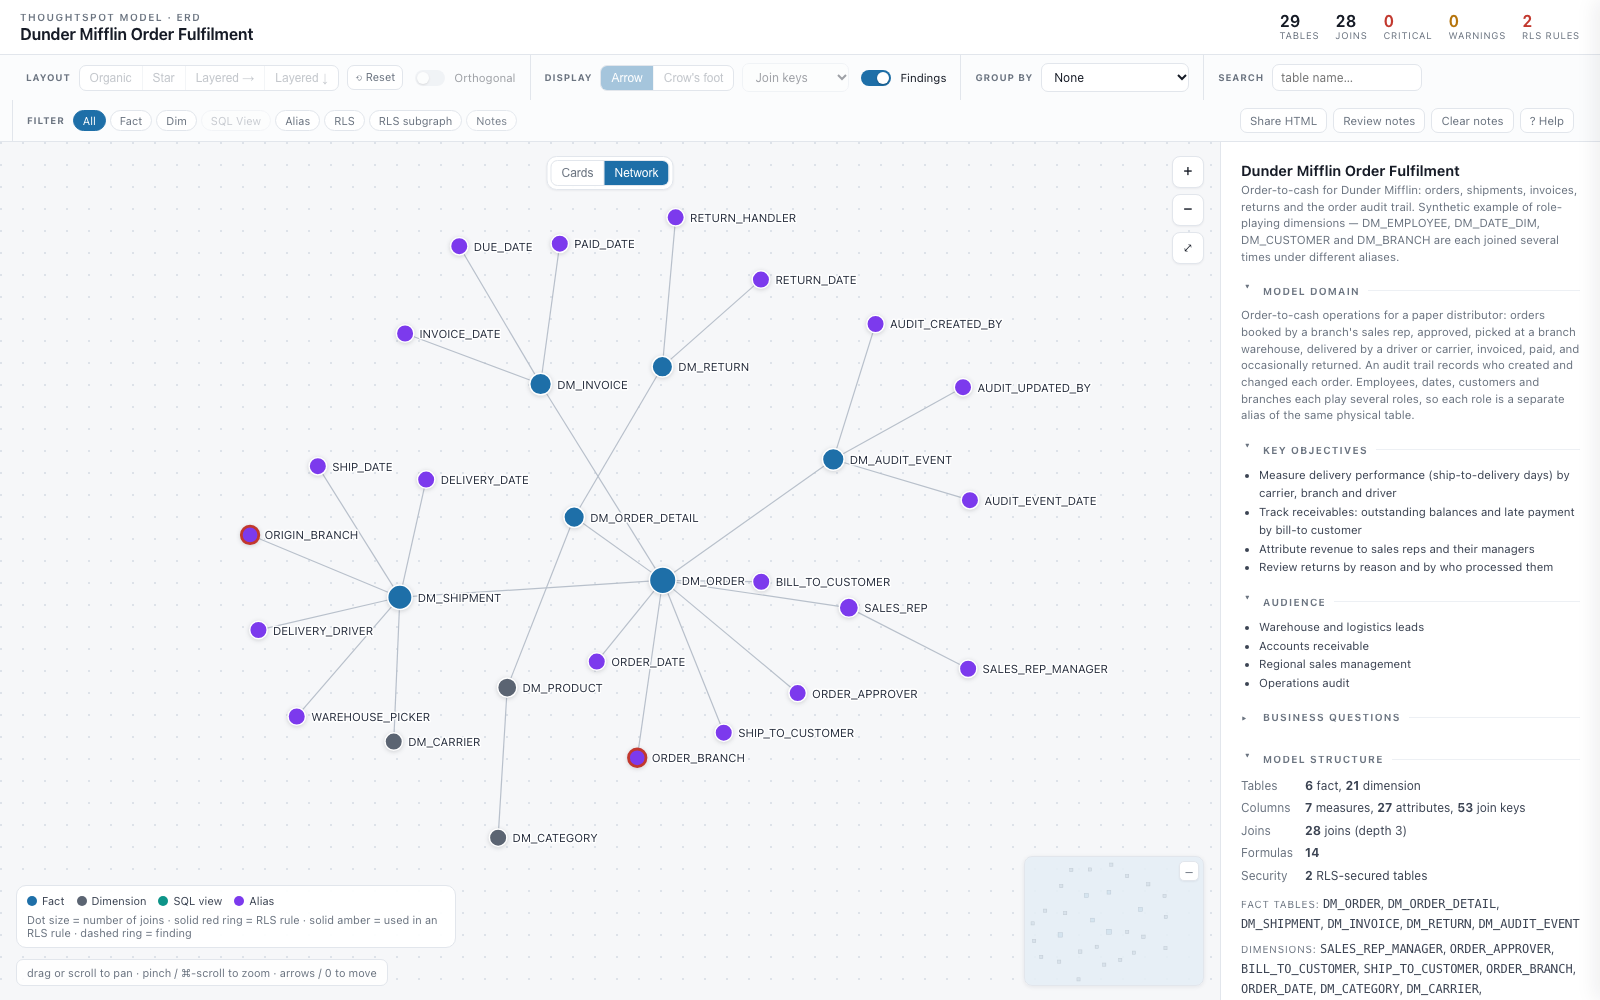
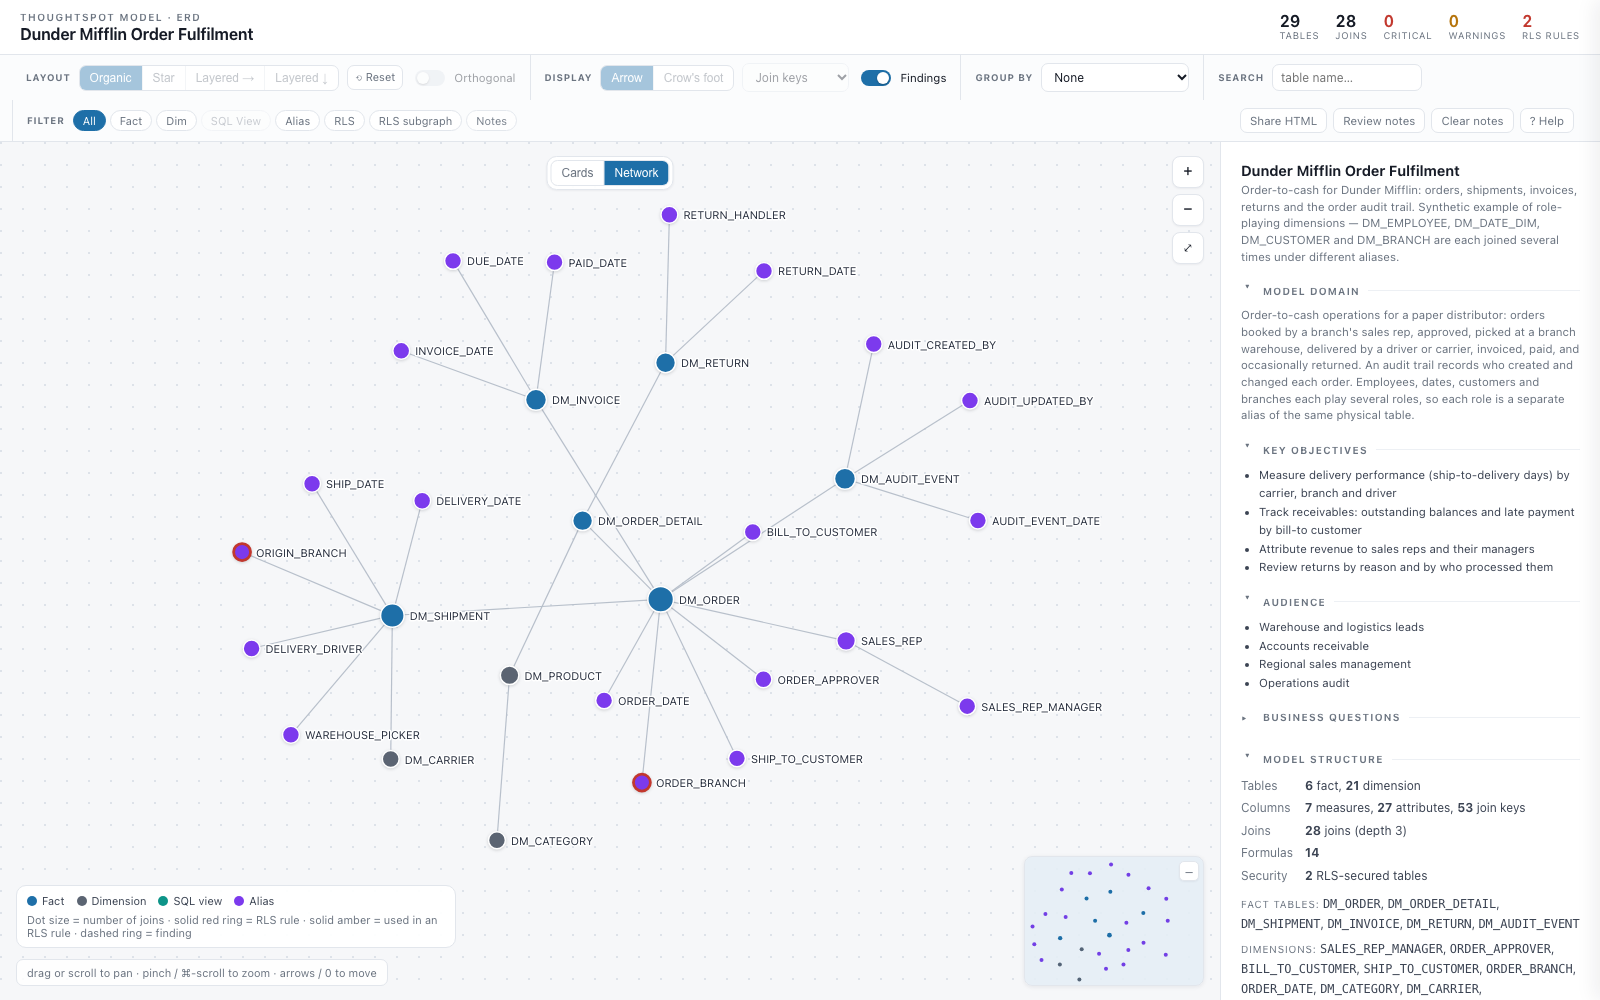
fix(erd): network view polish — layout highlight, measured label widths, minimap dots, legend clearance (ts-object-model-erd 1.9.1) (#598)

diff --git a/agents/cli/ts-object-model-erd/examples/order-fulfilment/model_erd.html b/agents/cli/ts-object-model-erd/examples/order-fulfilment/model_erd.html
@@ -233,7 +233,8 @@ table.cols .c-syn .syn{font-family:-apple-system,system-ui,sans-serif;font-size:
 .dot{cursor:pointer;filter:drop-shadow(0 1px 2px rgba(20,27,38,.18))}
 .dot-label{font-size:12px;fill:#2A3140;paint-order:stroke;stroke:#fff;stroke-width:3px;stroke-linejoin:round;cursor:pointer}
 #viewport.net-far .dot-label{display:none}
-.net-legend{position:absolute;left:16px;bottom:52px;display:flex;flex-wrap:wrap;gap:6px 12px;max-width:440px;
+/* max-width keeps clear of the 180px minimap at the bottom right (16+180+16 + a 32px gap) */
+.net-legend{position:absolute;left:16px;bottom:52px;display:flex;flex-wrap:wrap;gap:6px 12px;max-width:min(440px,calc(100% - 244px));
   background:rgba(255,255,255,.94);border:1px solid var(--line,#E2E6EC);border-radius:10px;padding:8px 10px;font-size:11px;color:#3C4453}
 .net-legend[hidden]{display:none}
 .net-legend span{display:inline-flex;align-items:center;gap:5px}
@@ -449,7 +450,18 @@ function dotR(t){return Math.min(DOT_MAX,DOT_MIN+2.2*Math.sqrt((undir[t.id]||[])
 // endpoints, drag) goes through sizeNode, so dot geometry never leaks card sizes.
 function nodeSize(t){if(VIEW==="network"){const r=dotR(t);return {w:2*r,h:2*r};}return {w:NODE_W,h:nodeHeight(t)};}
 function sizeNode(n){const s=nodeSize(n.t);n.w=s.w;n.h=s.h;}
-function labelW(t){return t.id.length*NET_LABEL_CH+8;}
+// Label width in px, measured with the label's real font (12px, the page's sans), so
+// the network layout spaces for the text actually drawn. The per-character estimate is
+// a floor and the fallback when canvas text metrics are unavailable. Cached per id.
+let _lblCtx=null;const _lblW={};
+function labelW(t){
+  if(_lblW[t.id]!=null)return _lblW[t.id];
+  let w=t.id.length*NET_LABEL_CH;
+  try{_lblCtx=_lblCtx||document.createElement("canvas").getContext("2d");
+    _lblCtx.font="12px "+getComputedStyle(document.body).fontFamily;
+    w=Math.max(w,_lblCtx.measureText(t.id).width);}catch(e){}
+  return _lblW[t.id]=Math.ceil(w)+8;
+}
 
 function worstSev(id){let w=null;(findingsByTable[id]||[]).forEach(f=>{if(!w||SEV_RANK[f.sev]>SEV_RANK[w])w=f.sev;});return w;}
 // Tables referenced (by name/alias) in an RLS rule's expression, excluding the rule's
@@ -861,8 +873,12 @@ function tweenTo(targets){
   nodes.forEach(n=>{const t=targets[n.t.id];if(t){n.x=t.x;n.y=t.y;}});
   renderAll();fit();
 }
+// The highlighted Layout button is the active card layout. In network view that is the
+// layout Cards will return to (cardLayout), shown dimmed with the disabled segment.
+function syncLayoutSeg(){const on=VIEW==="network"?cardLayout:layoutName;
+  document.querySelectorAll("#layout-seg button").forEach(b=>b.classList.toggle("on",b.dataset.l===on));}
 function setLayout(name){layoutName=name;
-  document.querySelectorAll("#layout-seg button").forEach(b=>b.classList.toggle("on",b.dataset.l===name));
+  syncLayoutSeg();
   const layered=name==="lr"||name==="tb";
   tOrth.disabled=!layered;$("orth-wrap").style.opacity=layered?1:.4;
   updateSavedBadge();
@@ -878,6 +894,7 @@ function syncViewControls(){
   const net=VIEW==="network";
   document.querySelectorAll("#view-seg button").forEach(b=>b.classList.toggle("on",b.dataset.v===VIEW));
   document.querySelectorAll("#layout-seg button,#notation-seg button").forEach(b=>b.disabled=net);
+  syncLayoutSeg();
   colSel.disabled=net;
   if(net){tOrth.disabled=true;$("orth-wrap").style.opacity=.4;}
   $("net-legend").hidden=!net;
@@ -1237,6 +1254,9 @@ function renderMinimap(){
   const scale=Math.min((MM_W-MM_PAD*2)/w,(MM_H-MM_PAD*2)/h);
   mmT={scale,ox:bb.x0,oy:bb.y0};
   nodes.forEach(n=>{
+    // Network view: dots in their role colour (card fills are near-white specks at this size).
+    if(VIEW==="network"){NS_el("circle",{cx:MM_PAD+(n.x+n.w/2-bb.x0)*scale,cy:MM_PAD+(n.y+n.h/2-bb.y0)*scale,
+      r:Math.max(2,n.w/2*scale),fill:DOT_FILL[dotKind(n.t)]},host);return;}
     NS_el("rect",{x:MM_PAD+(n.x-bb.x0)*scale,y:MM_PAD+(n.y-bb.y0)*scale,
       width:Math.max(1,n.w*scale),height:Math.max(1,n.h*scale),fill:mmFill(n.t)},host);
   });

diff --git a/agents/cli/ts-object-model-erd/examples/sales-inventory/model_erd.html b/agents/cli/ts-object-model-erd/examples/sales-inventory/model_erd.html
@@ -233,7 +233,8 @@ table.cols .c-syn .syn{font-family:-apple-system,system-ui,sans-serif;font-size:
 .dot{cursor:pointer;filter:drop-shadow(0 1px 2px rgba(20,27,38,.18))}
 .dot-label{font-size:12px;fill:#2A3140;paint-order:stroke;stroke:#fff;stroke-width:3px;stroke-linejoin:round;cursor:pointer}
 #viewport.net-far .dot-label{display:none}
-.net-legend{position:absolute;left:16px;bottom:52px;display:flex;flex-wrap:wrap;gap:6px 12px;max-width:440px;
+/* max-width keeps clear of the 180px minimap at the bottom right (16+180+16 + a 32px gap) */
+.net-legend{position:absolute;left:16px;bottom:52px;display:flex;flex-wrap:wrap;gap:6px 12px;max-width:min(440px,calc(100% - 244px));
   background:rgba(255,255,255,.94);border:1px solid var(--line,#E2E6EC);border-radius:10px;padding:8px 10px;font-size:11px;color:#3C4453}
 .net-legend[hidden]{display:none}
 .net-legend span{display:inline-flex;align-items:center;gap:5px}
@@ -449,7 +450,18 @@ function dotR(t){return Math.min(DOT_MAX,DOT_MIN+2.2*Math.sqrt((undir[t.id]||[])
 // endpoints, drag) goes through sizeNode, so dot geometry never leaks card sizes.
 function nodeSize(t){if(VIEW==="network"){const r=dotR(t);return {w:2*r,h:2*r};}return {w:NODE_W,h:nodeHeight(t)};}
 function sizeNode(n){const s=nodeSize(n.t);n.w=s.w;n.h=s.h;}
-function labelW(t){return t.id.length*NET_LABEL_CH+8;}
+// Label width in px, measured with the label's real font (12px, the page's sans), so
+// the network layout spaces for the text actually drawn. The per-character estimate is
+// a floor and the fallback when canvas text metrics are unavailable. Cached per id.
+let _lblCtx=null;const _lblW={};
+function labelW(t){
+  if(_lblW[t.id]!=null)return _lblW[t.id];
+  let w=t.id.length*NET_LABEL_CH;
+  try{_lblCtx=_lblCtx||document.createElement("canvas").getContext("2d");
+    _lblCtx.font="12px "+getComputedStyle(document.body).fontFamily;
+    w=Math.max(w,_lblCtx.measureText(t.id).width);}catch(e){}
+  return _lblW[t.id]=Math.ceil(w)+8;
+}
 
 function worstSev(id){let w=null;(findingsByTable[id]||[]).forEach(f=>{if(!w||SEV_RANK[f.sev]>SEV_RANK[w])w=f.sev;});return w;}
 // Tables referenced (by name/alias) in an RLS rule's expression, excluding the rule's
@@ -861,8 +873,12 @@ function tweenTo(targets){
   nodes.forEach(n=>{const t=targets[n.t.id];if(t){n.x=t.x;n.y=t.y;}});
   renderAll();fit();
 }
+// The highlighted Layout button is the active card layout. In network view that is the
+// layout Cards will return to (cardLayout), shown dimmed with the disabled segment.
+function syncLayoutSeg(){const on=VIEW==="network"?cardLayout:layoutName;
+  document.querySelectorAll("#layout-seg button").forEach(b=>b.classList.toggle("on",b.dataset.l===on));}
 function setLayout(name){layoutName=name;
-  document.querySelectorAll("#layout-seg button").forEach(b=>b.classList.toggle("on",b.dataset.l===name));
+  syncLayoutSeg();
   const layered=name==="lr"||name==="tb";
   tOrth.disabled=!layered;$("orth-wrap").style.opacity=layered?1:.4;
   updateSavedBadge();
@@ -878,6 +894,7 @@ function syncViewControls(){
   const net=VIEW==="network";
   document.querySelectorAll("#view-seg button").forEach(b=>b.classList.toggle("on",b.dataset.v===VIEW));
   document.querySelectorAll("#layout-seg button,#notation-seg button").forEach(b=>b.disabled=net);
+  syncLayoutSeg();
   colSel.disabled=net;
   if(net){tOrth.disabled=true;$("orth-wrap").style.opacity=.4;}
   $("net-legend").hidden=!net;
@@ -1237,6 +1254,9 @@ function renderMinimap(){
   const scale=Math.min((MM_W-MM_PAD*2)/w,(MM_H-MM_PAD*2)/h);
   mmT={scale,ox:bb.x0,oy:bb.y0};
   nodes.forEach(n=>{
+    // Network view: dots in their role colour (card fills are near-white specks at this size).
+    if(VIEW==="network"){NS_el("circle",{cx:MM_PAD+(n.x+n.w/2-bb.x0)*scale,cy:MM_PAD+(n.y+n.h/2-bb.y0)*scale,
+      r:Math.max(2,n.w/2*scale),fill:DOT_FILL[dotKind(n.t)]},host);return;}
     NS_el("rect",{x:MM_PAD+(n.x-bb.x0)*scale,y:MM_PAD+(n.y-bb.y0)*scale,
       width:Math.max(1,n.w*scale),height:Math.max(1,n.h*scale),fill:mmFill(n.t)},host);
   });

diff --git a/agents/shared/erd/renderer.js b/agents/shared/erd/renderer.js
@@ -37,7 +37,18 @@ function dotR(t){return Math.min(DOT_MAX,DOT_MIN+2.2*Math.sqrt((undir[t.id]||[])
 // endpoints, drag) goes through sizeNode, so dot geometry never leaks card sizes.
 function nodeSize(t){if(VIEW==="network"){const r=dotR(t);return {w:2*r,h:2*r};}return {w:NODE_W,h:nodeHeight(t)};}
 function sizeNode(n){const s=nodeSize(n.t);n.w=s.w;n.h=s.h;}
-function labelW(t){return t.id.length*NET_LABEL_CH+8;}
+// Label width in px, measured with the label's real font (12px, the page's sans), so
+// the network layout spaces for the text actually drawn. The per-character estimate is
+// a floor and the fallback when canvas text metrics are unavailable. Cached per id.
+let _lblCtx=null;const _lblW={};
+function labelW(t){
+  if(_lblW[t.id]!=null)return _lblW[t.id];
+  let w=t.id.length*NET_LABEL_CH;
+  try{_lblCtx=_lblCtx||document.createElement("canvas").getContext("2d");
+    _lblCtx.font="12px "+getComputedStyle(document.body).fontFamily;
+    w=Math.max(w,_lblCtx.measureText(t.id).width);}catch(e){}
+  return _lblW[t.id]=Math.ceil(w)+8;
+}
 
 function worstSev(id){let w=null;(findingsByTable[id]||[]).forEach(f=>{if(!w||SEV_RANK[f.sev]>SEV_RANK[w])w=f.sev;});return w;}
 // Tables referenced (by name/alias) in an RLS rule's expression, excluding the rule's
@@ -449,8 +460,12 @@ function tweenTo(targets){
   nodes.forEach(n=>{const t=targets[n.t.id];if(t){n.x=t.x;n.y=t.y;}});
   renderAll();fit();
 }
+// The highlighted Layout button is the active card layout. In network view that is the
+// layout Cards will return to (cardLayout), shown dimmed with the disabled segment.
+function syncLayoutSeg(){const on=VIEW==="network"?cardLayout:layoutName;
+  document.querySelectorAll("#layout-seg button").forEach(b=>b.classList.toggle("on",b.dataset.l===on));}
 function setLayout(name){layoutName=name;
-  document.querySelectorAll("#layout-seg button").forEach(b=>b.classList.toggle("on",b.dataset.l===name));
+  syncLayoutSeg();
   const layered=name==="lr"||name==="tb";
   tOrth.disabled=!layered;$("orth-wrap").style.opacity=layered?1:.4;
   updateSavedBadge();
@@ -466,6 +481,7 @@ function syncViewControls(){
   const net=VIEW==="network";
   document.querySelectorAll("#view-seg button").forEach(b=>b.classList.toggle("on",b.dataset.v===VIEW));
   document.querySelectorAll("#layout-seg button,#notation-seg button").forEach(b=>b.disabled=net);
+  syncLayoutSeg();
   colSel.disabled=net;
   if(net){tOrth.disabled=true;$("orth-wrap").style.opacity=.4;}
   $("net-legend").hidden=!net;
@@ -825,6 +841,9 @@ function renderMinimap(){
   const scale=Math.min((MM_W-MM_PAD*2)/w,(MM_H-MM_PAD*2)/h);
   mmT={scale,ox:bb.x0,oy:bb.y0};
   nodes.forEach(n=>{
+    // Network view: dots in their role colour (card fills are near-white specks at this size).
+    if(VIEW==="network"){NS_el("circle",{cx:MM_PAD+(n.x+n.w/2-bb.x0)*scale,cy:MM_PAD+(n.y+n.h/2-bb.y0)*scale,
+      r:Math.max(2,n.w/2*scale),fill:DOT_FILL[dotKind(n.t)]},host);return;}
     NS_el("rect",{x:MM_PAD+(n.x-bb.x0)*scale,y:MM_PAD+(n.y-bb.y0)*scale,
       width:Math.max(1,n.w*scale),height:Math.max(1,n.h*scale),fill:mmFill(n.t)},host);
   });

diff --git a/agents/shared/erd/renderer.css b/agents/shared/erd/renderer.css
@@ -229,7 +229,8 @@ table.cols .c-syn .syn{font-family:-apple-system,system-ui,sans-serif;font-size:
 .dot{cursor:pointer;filter:drop-shadow(0 1px 2px rgba(20,27,38,.18))}
 .dot-label{font-size:12px;fill:#2A3140;paint-order:stroke;stroke:#fff;stroke-width:3px;stroke-linejoin:round;cursor:pointer}
 #viewport.net-far .dot-label{display:none}
-.net-legend{position:absolute;left:16px;bottom:52px;display:flex;flex-wrap:wrap;gap:6px 12px;max-width:440px;
+/* max-width keeps clear of the 180px minimap at the bottom right (16+180+16 + a 32px gap) */
+.net-legend{position:absolute;left:16px;bottom:52px;display:flex;flex-wrap:wrap;gap:6px 12px;max-width:min(440px,calc(100% - 244px));
   background:rgba(255,255,255,.94);border:1px solid var(--line,#E2E6EC);border-radius:10px;padding:8px 10px;font-size:11px;color:#3C4453}
 .net-legend[hidden]{display:none}
 .net-legend span{display:inline-flex;align-items:center;gap:5px}

diff --git a/agents/cli/ts-object-model-erd/tests/test_network_view.py b/agents/cli/ts-object-model-erd/tests/test_network_view.py
@@ -242,3 +242,74 @@ def test_view_toggle_does_not_touch_the_toolbar(FULFIL, tmp_path):
       const v=document.getElementById('view-seg');
       return {inControls:!!v.closest('.controls'), onCanvas:!!v.closest('.canvas-wrap')};""", tmp_path)
     assert r == {"inControls": False, "onCanvas": True}
+
+
+def test_layout_button_stays_highlighted_in_and_after_network_view(FULFIL, tmp_path):
+    """Minor 1: network view keeps the card layout it will return to highlighted, and a
+    page whose DOM lost the highlight (a file shared from network view) restores it."""
+    r = browser.probe(FULFIL, """
+      const on=()=>[...document.querySelectorAll('#layout-seg button.on')].map(b=>b.dataset.l);
+      setLayout('lr');setView('network');const inNet=on();
+      setView('cards');
+      document.querySelectorAll('#layout-seg button').forEach(b=>b.classList.remove('on'));
+      loadModel(MODEL);
+      return {inNet, afterLoad:on(), layoutName};""", tmp_path)
+    assert r["inNet"] == ["lr"]
+    assert r["afterLoad"] == [r["layoutName"]]
+
+
+def test_label_width_estimate_covers_rendered_labels(tmp_path):
+    """Minor 5: the layout spaces for labelW, so labelW must not undercut the real text,
+    and the rendered dot+label boxes of long names must not overlap."""
+    import render
+    names = ["CUSTOMER_LIFETIME_VALUE_SEGMENT_%d" % i for i in range(6)] + ["WWWWWWWWWWWWWWWWWWWWWW", "HUB"]
+    tables = [{"id": n, "kind": "dim", "cols": [], "rls": [], "is_sql_view": False,
+               "sql_query": None, "alias_of": None, "in_rls_path": False} for n in names]
+    joins = [{"from": "HUB", "to": n, "name": "j%d" % i, "card": "MANY_TO_ONE", "origin": "model",
+              "type": "INNER", "on": ""} for i, n in enumerate(names[:-1])]
+    bundle = {"models": [{"model": {"name": "L", "guid": "", "description": ""}, "tables": tables,
+                          "joins": joins, "formulas": {}, "findings": []}], "index": [], "dropped": []}
+    page = tmp_path / "long.html"; render.write_html(bundle, str(page))
+    r = browser.probe(str(page), """
+      view.k=1;applyView();
+      const short=[],boxes=[];
+      document.querySelectorAll('#nodes g.node').forEach(g=>{
+        const lab=g.querySelector('.dot-label'),id=lab.textContent,w=lab.getBBox().width;
+        if(w>labelW(tableById[id])-8)short.push([id,w,labelW(tableById[id])]);
+        const a=g.querySelector('circle.dot').getBoundingClientRect(),b=lab.getBoundingClientRect();
+        boxes.push([id,Math.min(a.left,b.left),Math.min(a.top,b.top),Math.max(a.right,b.right),Math.max(a.bottom,b.bottom)]);});
+      const hits=[];
+      for(let i=0;i<boxes.length;i++)for(let k=i+1;k<boxes.length;k++){const A=boxes[i],B=boxes[k];
+        if(A[1]<B[3]&&B[1]<A[3]&&A[2]<B[4]&&B[2]<A[4])hits.push([A[0],B[0]]);}
+      return {short,hits};""", tmp_path, hash=NET)
+    assert r["short"] == []
+    assert r["hits"] == []
+
+
+def test_minimap_draws_dots_in_network_view(FULFIL, tmp_path):
+    """Minor 3: the minimap shows the network as coloured dots, not invisible specks."""
+    r = browser.probe(FULFIL, """
+      const c=[...document.querySelectorAll('#minimap-nodes circle')];
+      return {n:c.length, rects:document.querySelectorAll('#minimap-nodes rect').length,
+              fills:[...new Set(c.map(e=>e.getAttribute('fill').toUpperCase()))].sort(),
+              minR:Math.min(...c.map(e=>+e.getAttribute('r')))};""", tmp_path, hash=NET)
+    assert r["n"] == 29 and r["rects"] == 0
+    assert "#7C3AED" in r["fills"] and "#1E6FA8" in r["fills"]
+    assert r["minR"] >= 2
+
+
+def test_net_legend_clears_minimap_on_small_screens(FULFIL, tmp_path):
+    """Minor 4: at 1024x768 the legend must not run under the minimap."""
+    orig = browser.subprocess.run
+    def run(cmd, *a, **k):
+        return orig([c if not c.startswith("--window-size=") else "--window-size=1024,768" for c in cmd], *a, **k)
+    browser.subprocess.run = run
+    try:
+        r = browser.probe(FULFIL, """
+          const L=document.getElementById('net-legend').getBoundingClientRect(),
+                M=document.getElementById('minimap').getBoundingClientRect();
+          return {legendRight:L.right, minimapLeft:M.left, overlapY:L.bottom>M.top&&M.bottom>L.top};""",
+            tmp_path, hash=NET)
+    finally:
+        browser.subprocess.run = orig
+    assert (not r["overlapY"]) or r["legendRight"] <= r["minimapLeft"], r

diff --git a/agents/cli/ts-object-model-erd/SKILL.md b/agents/cli/ts-object-model-erd/SKILL.md
@@ -310,6 +310,7 @@ HTML file; no ThoughtSpot login required to view.
 
 | Version | Date | Summary |
 |---|---|---|
+| 1.9.1 | 2026-10-14 | **Network view polish** (the review's deferred minors). The Layout button stays highlighted in Network view, showing the card layout Cards returns to, and is restored on load, so a file shared from Network view no longer opens with none lit. Label width is measured with the real font, not estimated per character, so long names no longer overlap a neighbouring dot. The minimap draws the network as role-coloured dots. The network legend keeps clear of the minimap on small screens. The examples README says a remembered view choice takes precedence over `#view=network`. |
 | 1.9.0 | 2026-10-14 | **Network view.** A Cards / Network toggle, floating at the top of the diagram, draws each table as a labelled dot sized by join count. Fill shows role: fact, dimension, SQL view, or alias in purple. A Group-by colour overrides the fill. The ring carries state: solid red for an RLS rule, solid amber for a table used in one, dashed for a finding, blue for focus. Joins are plain lines, and the layout is a deterministic force layout spaced for label width rather than card width. One geometry seam (`nodeSize`) feeds fit, the minimap, edge endpoints and drag in both views, and Cards renders byte-identically to before at every window size tested (the toggle sits on the canvas, so the toolbar is untouched). The choice persists per browser (`ts-erd-view`); `#view=network` opens a first visit in Network. Fixes a latent Share HTML bug the view would have triggered: the baked positions seed the recipient's card layout, so they are now always card positions. Behaviour tests run the real viewer in headless Chrome. |
 | 1.8.1 | 2026-10-14 | **Browsable examples.** New `examples/` folder with two rendered, self-contained ERDs built from synthetic, lint-clean TML: *Dunder Mifflin Sales & Inventory* (8 tables, a star schema with table-level joins and semi-additive formulas) and *Dunder Mifflin Order Fulfilment* (29 tables, 20 of them aliases; role-playing employee/date/customer/branch dimensions, an alias self-join, and RLS on a physical table showing on both of its aliases). Each example ships with its TML, business-context JSON, a screenshot and an index README. `tests/test_examples.py` re-renders every example and fails on drift, because each HTML file has the viewer baked in. No change to the builder or the renderer. |
 | 1.8.0 | 2026-08-05 | **BL-205 — render an ERD from a source semantic definition.** New Step 1 option **(C)**, covering a Snowflake Semantic View and a Databricks Metric View, with a Step 1.5 that converts offline and hands the emitted Model TML to the existing render. The conversion always worked without a ThoughtSpot instance; what blocked it was that both `build-model`s demand warehouse-registration inputs a diagram never uses, so producing one meant hand-deriving a tables map. `--tables auto` (ts-cli 0.129.0) closes that, and on Databricks `--connection` is no longer required alongside it. Scoped to those two formats deliberately: they are declarative semantic-layer objects, while the BI-workbook converters invent the table layer and would stub the decisions that shape the diagram — those still render via option (A) after a real conversion. The step also requires reporting `SKIPPED` translations (absent from the diagram, so silence would misrepresent the source) and stating that the ERD shows the ThoughtSpot Model the source converts to. |

diff --git a/CHANGELOG.md b/CHANGELOG.md
@@ -6,6 +6,7 @@ Skill-level changes are tracked in each skill's own `## Changelog` section.
 ---
 
 ## 2026-10-14
+- fix: ts-object-model-erd 1.9.1 — Network view polish: Layout highlight kept/restored (incl. files shared from Network view), real-font label widths, coloured minimap dots, legend clears the minimap on small screens
 - feat: tools/agentql-retest — a live retest suite for ts-object-model-agentql-query's documented limitations (80 cases plus 7 controls; reports only the rows whose behaviour moved); skill 2.4.0
 - feat: ts-object-model-erd 1.9.0 — **Network view** in the shared ERD viewer (also used by ts-audit): a Cards / Network toggle draws each table as a labelled dot sized by join count, aliases in purple, plain join lines, its own deterministic force layout; fixes a latent Share HTML position bug; behaviour tests run the viewer in headless Chrome
 - docs: ts-object-model-agentql-query 2.3.1 — regex limitation (SCAL-338545) marked build- or cluster-dependent: fails on Snowflake on 26.9.0.cl PROD for all three forms, but compiled correctly on a dev cluster in September

diff --git a/agents/cli/ts-object-model-erd/examples/README.md b/agents/cli/ts-object-model-erd/examples/README.md
@@ -44,7 +44,8 @@ written out as ThoughtSpot TML.
 
 The same model in **Network** view (the Cards | Network toggle at the top of the diagram): dots sized by join count, with aliases in
 purple. The role-playing fan-out around each fact is easier to see here than with
-cards. Add `#view=network` to the file's URL to open it in this view.
+cards. The viewer remembers the last view you picked. Until you pick one, adding
+`#view=network` to the file's URL opens it in this view.
 
 ![Order Fulfilment, network view](order-fulfilment/screenshot-network.png)
 
